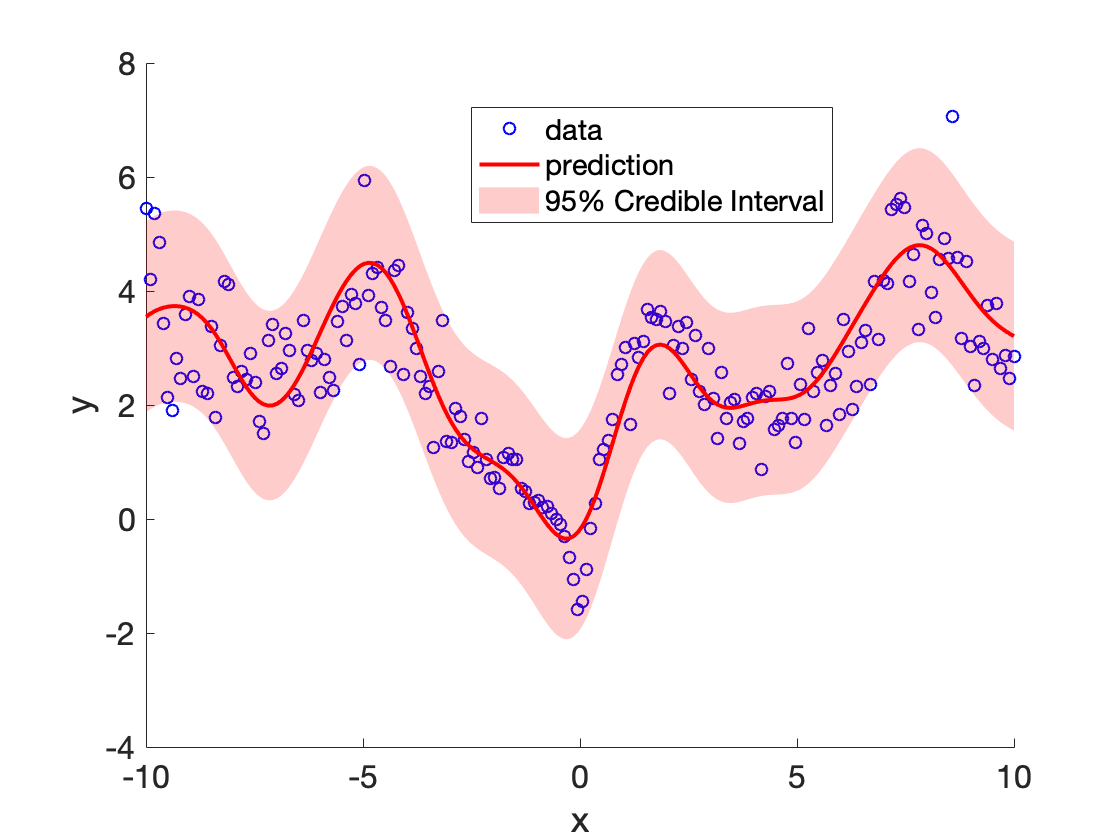
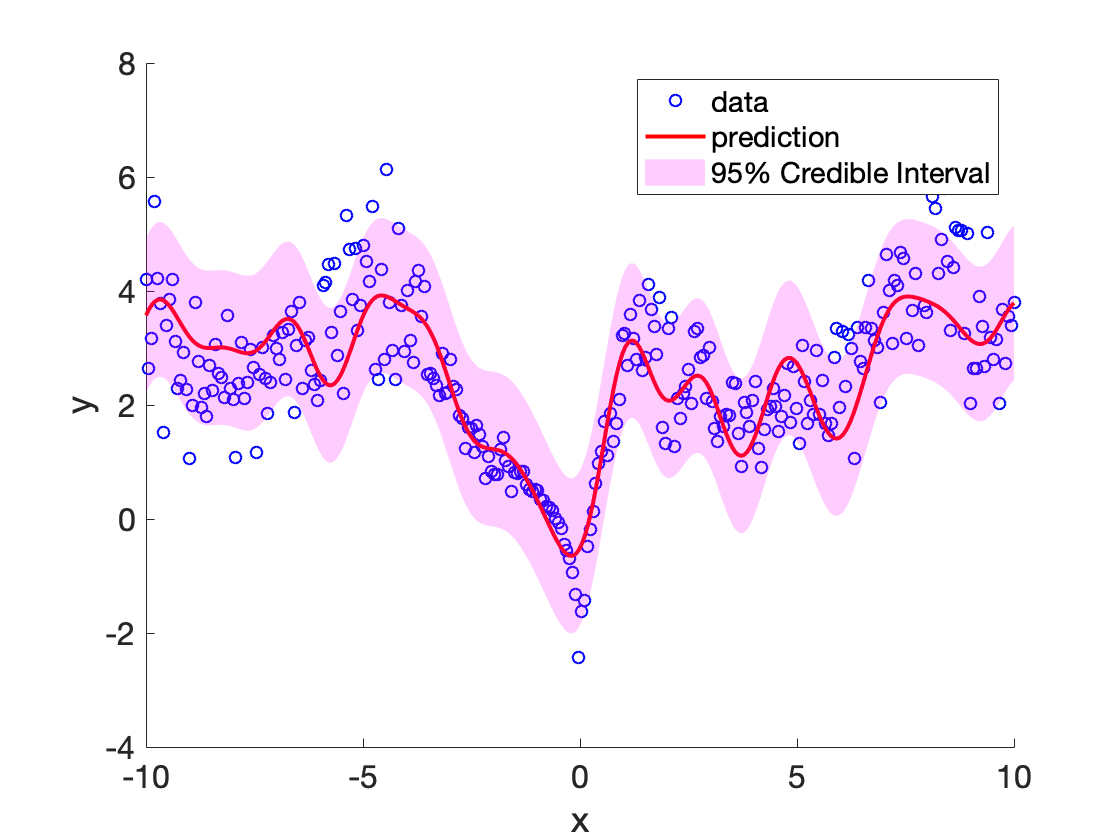
new

Changed region(s): [[0.125, 0.0929, 0.9062, 0.8048], [0.8438, 0.1238, 0.875, 0.1548]]

diff --git a/sigp.m b/sigp.m
@@ -13,7 +13,8 @@ function hyp = sigp(X,y,m,varargin)
 %        For classification, a slice contains one or more classes
 %    eta is small postive number used to improve the condition of A
 %    lambda is the mean function regularization parameter
-%    efn specifies the error function, 'lin' - linear, 'ker' - kernel Ridge
+%    efn specifies the error function, 
+%        'cov' - use covariance kernel, 'lin' - linear, 'ker' - kernel Ridge
 %    meankfn/covkfn give the mean and covariance kernel functions,
 %       default are linear and rational quadratic
 %
@@ -28,28 +29,29 @@ hyp = struct();
 [n,p] = size(X);
 
 opt = inputParser;
-opt.addParameter( 'maxiter', 50, @(x) floor(x) > 0 );
-opt.addParameter( 'tol', 1e-5, @(x) floor(x) >= 0);
-opt.addParameter( 'ns', 0, @(x) floor(x) > 1 & floor(x) <= n/2); % 1 for auto select
-opt.addParameter( 'eta', 1e-11, @(x) floor(x) >= 0);
-opt.addParameter( 'lambda', 1e-5, @(x) floor(x) >= 0);
-opt.addParameter( 'efn', 'ker', @(x) strcmp(x,'lin')|strcmp(x,'ker'));
+opt.addParameter( 'maxiter',  50,        @(x) floor(x) > 0 );
+opt.addParameter( 'tol',      1e-5,      @(x) floor(x) >= 0);
+opt.addParameter( 'ns',       0,         @(x) floor(x) > 1 & floor(x) <= n/2); % 1 for auto select
+opt.addParameter( 'eta',      1e-11,     @(x) floor(x) >= 0);
+opt.addParameter( 'lambda',   1e-5,      @(x) floor(x) >= 0);
+opt.addParameter( 'efn',      'cov',     @(x) strcmp(x,'lin')|strcmp(x,'ker')|strcmp(x,'cov'));
 opt.addParameter( 'meankfn',  @sigp_lin, @(x) feval(x) >= 0); % used only if opt.efn == 'ker'
 opt.addParameter( 'covkfn',   @sigp_rq,  @(x) feval(x) >= 0);
-opt.addParameter( 'meankpar', [], @(x) true);
-opt.addParameter( 'covkpar',  [1 1], @(x) true);
-opt.addParameter( 'showlik',  false, @(x) islogical(x));
-opt.addParameter( 'normalize',true,  @(x) islogical(x));
+opt.addParameter( 'meankpar', [],        @(x) true);
+opt.addParameter( 'covkpar',  [1 1],     @(x) true);
+opt.addParameter( 'showlik',  false,     @(x) islogical(x));
+opt.addParameter( 'normalize',true,      @(x) islogical(x));
 opt.parse(varargin{:});
 opt = opt.Results;    
 
 hyp.opt = opt;
 
 if strcmp(opt.efn,'lin')
-    use_ker_efn = false;
-    opt.meankfn = @sigp_lin; % override meankfn if using linear mean
+    use_ker_efn = 0;
+elseif strcmp(opt.efn,'cov')
+    use_ker_efn = 1; % mean function uses the kernel as covariance
 else
-    use_ker_efn = true;
+    use_ker_efn = 2; % for full kernel mean
 end
 
 % Center the data (do not normalize the variance)
@@ -89,9 +91,7 @@ else
     end
 end
 
-meankfn = @(X,Z,param) feval(opt.meankfn,X,Z,param);
 covkfn  = @(X,Z,param) feval(opt.covkfn,X,Z,param);
-MK = meankfn(X,[],opt.meankpar);
 CK = covkfn(X,[],opt.covkpar);
 
 if m > 0
@@ -100,24 +100,17 @@ if m > 0
     pos = cumsum([1;csz]);
     for i = 1:length(csz)
         idx = pos(i):pos(i+1)-1;
-        A(idx,:) = CK(idx,:) - mean(CK(idx,:));
+        A(:,idx) = CK(:,idx) - mean(CK(:,idx),2);
     end
-    C = CK; C = C - mean(C); C = C*C';
-    A = A*A'; A(1:n+1:end) = A(1:n+1:end) + opt.eta;
+    C = CK; C = C - mean(C,2); C = C*C'/n;
+    A = A*A'/n; A(1:n+1:end) = A(1:n+1:end) + opt.eta;
     hyp.A = A; hyp.C = C;
     [W,E] = eigs(C,A,m);
-    W = W./sqrt(sum(W.^2));
     hyp.eigs = diag(E);
 else
     % use the full covariance kernel
     m = n;
     W = eye(n);
-end
-
-if use_ker_efn
-    efn = @(varargin) sigp_efn_ker(y,MK,varargin{:});
-else
-    efn = @(varargin) sigp_efn_lin(y,X,varargin{:});
 end
 
 % Initialize other parameters
@@ -126,6 +119,15 @@ beta = zeros(m,1);
 err = y;  res = err;
 P = CK*W;  PTP = P'*P;
 hyp.nlp = [];
+
+if use_ker_efn == 1
+    efn = @(varargin) sigp_efn_cov(y,P,varargin{:});
+elseif use_ker_efn == 2
+    MK  = feval(opt.meankfn,X,[],opt.meankpar);
+    efn = @(varargin) sigp_efn_ker(y,MK,varargin{:});
+else
+    efn = @(varargin) sigp_efn_lin(y,X,varargin{:});
+end
 
 if opt.showlik
     figure;
@@ -169,12 +171,16 @@ MF = W*beta;
 CF = W*sqrtm(Sv);
 
 hyp.covkfn = @(Z) covkfn((Z-hyp.Xmu)./hyp.Xstd,X,opt.covkpar);
-if strcmp(opt.efn,'ker')
+if use_ker_efn == 1
+    hyp.mf = @(Z)-sigp_efn_cov(zeros(size(Z,1),1),...
+                covkfn((Z-hyp.Xmu)./hyp.Xstd,X,opt.covkpar)*W,alp);    
+elseif use_ker_efn == 2
     hyp.mf = @(Z)-sigp_efn_ker(zeros(size(Z,1),1),...
-                meankfn((Z-hyp.Xmu)./hyp.Xstd,X,opt.meankpar),alp);    
+                feval(opt.meankfn,(Z-hyp.Xmu)./hyp.Xstd,X,opt.meankpar),alp);    
 else
     hyp.mf = @(Z)-sigp_efn_lin(zeros(size(Z,1),1),(Z-hyp.Xmu)./hyp.Xstd,alp);    
 end
+
 hyp.f = @(Z) sigp_pred(hyp.covkfn(Z),hyp.mf(Z),MF,CF,s2);
 
 end
@@ -207,13 +213,24 @@ end
 val = [rs/ss*(y-X*val);val];
 end
 
+% Mean function based on covariance kernel
+function val = sigp_efn_cov(y,P,V,lambda)
+if nargin < 3, val = 'm+1'; return, end
+if nargin == 3, val = y - P*V(2:end) - V(1); return, end
+rs = sum(V);
+ss = sum(rs);
+PTVL= P'*V - P'*rs'/ss*rs;
+val = (PTVL*P)\(PTVL*y);
+val = [rs/ss*(y-P*val); val];
+end
+
 % Kernel Ridge mean function
 function val = sigp_efn_ker(y,K,V,lambda)
 if nargin < 3, val = 'n+1'; return, end
 if nargin == 3, val = y - K*V(2:end) - V(1); return, end
 n = size(K,1);
 rs = sum(V);
-ss = sum(sum(V));
+ss = sum(rs);
 VL = V - rs'/ss*rs;
 VLK = VL*K;
 VLK(1:n+1:end) = VLK(1:n+1:end) + lambda;

diff --git a/Example2.m b/Example2.m
@@ -1,17 +1,16 @@
-x = linspace(-10,10,200)';
+x = linspace(-10,10,300)';
 z = log(abs(x)) + exp(sin(x));   % true response
 y = z + z.*randn(length(x),1)/4; % noisy response
 
-% Train Rank-3 SIGP using 20% of the data
-% Use trainLR(x(1:5:end),y(1:5:end),3,2) to get the kernel parameters
-hyp = sigp(x(1:5:end),y(1:5:end),10,'efn','lin',...
-      'meankfn','sigp_lin','meankpar',[],...
-      'covkfn', 'sigp_rbf','covkpar',1.0465,...
-      'lambda',2.1994e-05,'normalize',false);
+% Train Rank-3 SIGP using 25% of the data
+% Use trainCR(x(1:5:end),y(1:5:end),3,2) to get the kernel parameters
+hyp = sigp(x(1:4:end),y(1:4:end),3,'efn','cov',...
+      'covkfn', 'sigp_rbf','covkpar',1.69396,...
+      'normalize',false);
 scatter(x,y,'bo');
 hold on;
 [ymu,ys2] = hyp.f(x);
-plotshaded(x',[ymu'+2*sqrt(ys2');ymu';ymu'-2*sqrt(ys2')],'r','r-');
+plotshaded(x',[ymu'+2*sqrt(ys2');ymu';ymu'-2*sqrt(ys2')],'m','r-');
 xlabel('x');
 ylabel('y');
 legend('data','prediction','95% Credible Interval');

diff --git a/trainCR.m b/trainCR.m
@@ -1,0 +1,26 @@
+function res = trainCR(X,y,m,k)
+
+band  = optimizableVariable('band', [1e-2,1e2],'Transform', 'log');
+
+minfn = @(z) objfn(k,X,y,m,z.band);
+
+res = bayesopt(minfn,band,'IsObjectiveDeterministic',true,...
+    'AcquisitionFunctionName','expected-improvement-plus', ...
+    'ExplorationRatio',0.5,'MaxObjectiveEvaluations',30);
+
+end
+
+function loss = objfn(k,X,y,m,band)
+c = cvpartition(length(y),'kFold',k);
+fun = @(xT,yT,xt,yt) crossnlp(xT,yT,xt,yt,m,band);
+nlp = crossval(fun,X,y,'partition',c);
+nlp = nlp(:);
+loss = mean(nlp);
+end
+
+function nlp = crossnlp(xT,yT,xt,yt,m,band)
+hyp = sigp(xT,yT,m,'efn','cov',...
+    'covkfn', 'sigp_rbf','covkpar',band,...
+    'normalize',false);
+nlp = norm(yt-hyp.f(xt))/sqrt(size(yt,1));
+end

diff --git a/Example.m b/Example.m
@@ -13,9 +13,8 @@ feaTrain = fea(1:100,:);
 feaTest = fea(101:end,:);
 
 disp("Classifying with SIGP ...");
-hyp = sigp(feaTrain,gndTrain,1,'efn','lin',...
-    'meankfn','sigp_lin','meankpar',[],...
-    'covkfn', 'sigp_rbf','covkpar',0.017152,...
-    'lambda',0.25265,'normalize',false);
+hyp = sigp(feaTrain,gndTrain,1,'efn','cov',...
+    'covkfn', 'sigp_rbf','covkpar',200.04,...
+    'normalize',false);
 
 disp("F1 score:" + num2str(F1score(sign(hyp.f(feaTest)),gndTest)));
